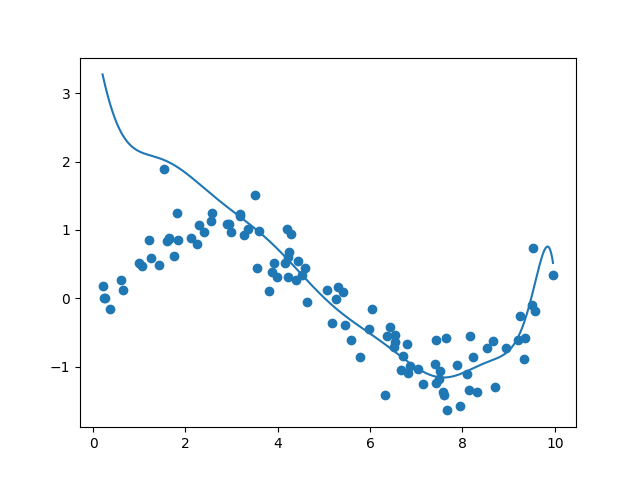
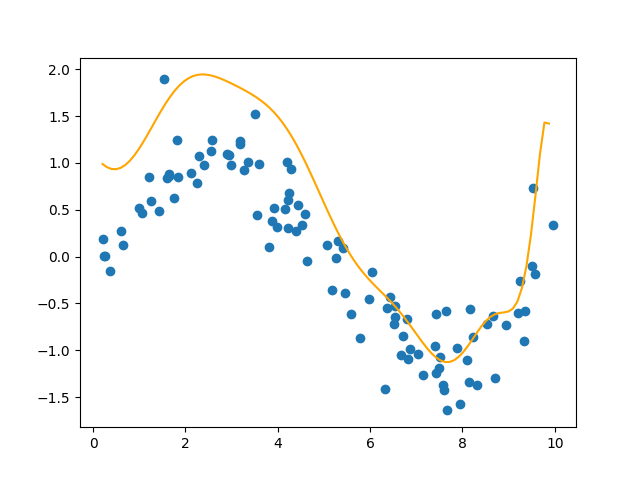
グラフの整形とcode checkerに沿った変更

diff --git a/ex3/k_furuta/main.py b/ex3/k_furuta/main.py
@@ -97,7 +97,7 @@ def parse_args():
     return parser.parse_args()
 
 
-def visalize(data, weight, dim):
+def visalize(data, weight, dim, points):
     """実データと回帰直線を表示する関数.
 
     4次元以上のデータ(特徴量が3つ以上のデータ)においてはプロットしないこととする
@@ -110,41 +110,61 @@ def visalize(data, weight, dim):
         回帰直線の係数
     dim : int
         各変数の次元数([1,2]ならば1,x^1,y^1,y^2)
+    points : int
+        回帰結果の表示点の数
     """
     # 特徴量と推定量に分割
     feature = data[:, :-1]
     target = data[:, -1]
 
     if len(dim) == 1:
-        x_0 = np.min(feature[:, 0]) + np.arange(0, 1000, 1) / 1000 * (
+        # プロット用の変数
+        x_0 = np.min(feature[:, 0]) + np.arange(0, points, 1) / points * (
             np.max(feature[:, 0]) - np.min(feature[:, 0])
         )
+        # 拡張して特徴量を用意
         variable = extend_data(x_0.reshape(-1, 1), dim)
+        # 重みから回帰結果の計算
         predict = variable @ weight
+
+        # 結果と散布図の作成
+        # 実データの散布図の表示
         plt.scatter(feature[:, 0], target)
-        plt.plot(x_0, predict)
-        plt.show()
+        # 回帰結果の表示
+        plt.plot(x_0, predict, color="orange")
+        # plt.show()
+
         # 画像化する際にはコメントアウトを外す
-        # plt.savefig("regression.png")
+        plt.savefig("regression.png")
 
     elif len(dim) == 2:
-        x_0 = np.min(feature[:, 0]) + np.arange(0, 100, 1) / 100 * (
+        # プロット用の変数
+        x_0 = np.min(feature[:, 0]) + np.arange(0, points, 1) / points * (
             np.max(feature[:, 0]) - np.min(feature[:, 0])
         )
-        x_1 = np.min(feature[:, 1]) + np.arange(0, 100, 1) / 100 * (
+        x_1 = np.min(feature[:, 1]) + np.arange(0, points, 1) / points * (
             np.max(feature[:, 1]) - np.min(feature[:, 1])
         )
+
+        # 直積を作成
         product = cartesian((x_0, x_1))
-        X_0, X_1 = np.meshgrid(x_0, x_1)
+        # 直積を拡張して特徴量を用意
         variable = extend_data(product, dim)
-        predict = (variable @ weight).reshape(100, 100).T
+        # 重みから回帰結果の計算
+        predict = (variable @ weight).reshape(points, points).T
+
+        # 結果と散布図の作成
         fig = plt.figure()
         ax = fig.add_subplot(projection="3d")
+        # 散布図の表示
         ax.scatter(feature[:, 0], feature[:, 1], target)
-        ax.plot_wireframe(X_0, X_1, predict)
-        plt.show()
+        # 回帰結果の表示
+        X_0, X_1 = np.meshgrid(x_0, x_1)
+        ax.plot_wireframe(X_0, X_1, predict, color="orange")
+        # plt.show()
+
         # 画像化する際にはコメントアウトを外す
-        # plt.savefig("regression.png")
+        plt.savefig("regression.png")
 
 
 if __name__ == "__main__":
@@ -170,4 +190,4 @@ if __name__ == "__main__":
     weight = calc_regression(data, dimension, coeff)
 
     # 重みから回帰される格子と実データの散布図を表示
-    visalize(data, weight, dimension)
+    visalize(data, weight, dimension, number_of_point)
